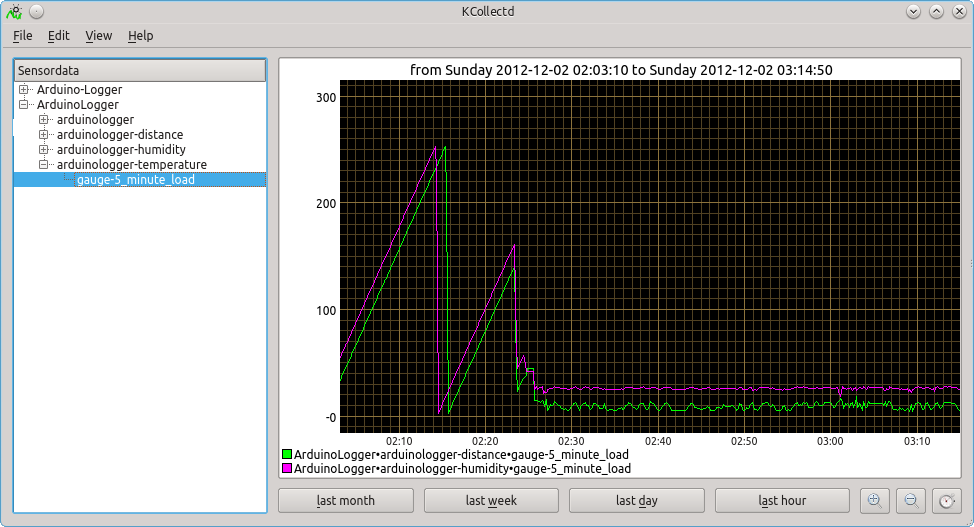
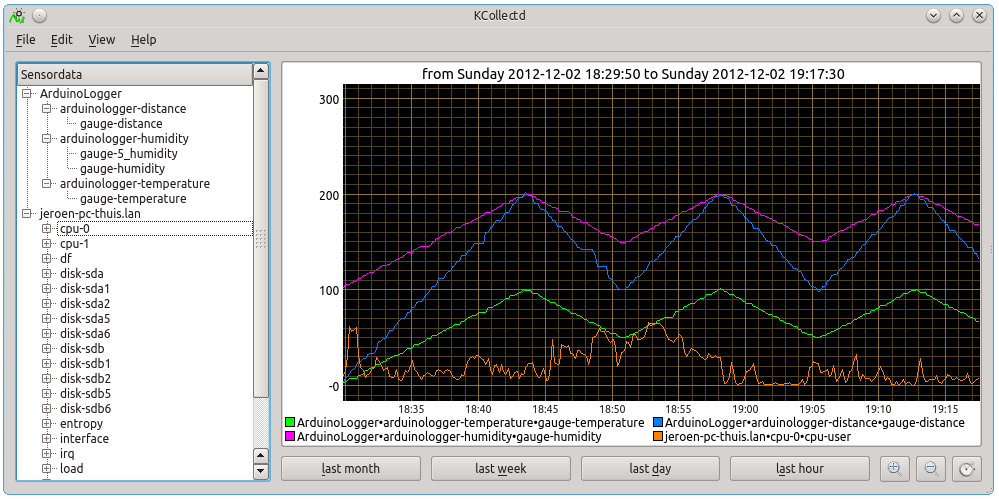
new KCollectd screenshot

diff --git a/Clients/Collectd/arduinologger_temperature.rb b/Clients/Collectd/arduinologger_temperature.rb
@@ -38,7 +38,7 @@ begin
 
     # collectd data and print the values
     data = `cat /usr/lib/collectd/plugins/arduino_temperature.log`   # get 5-minute load average
-    puts("PUTVAL #{hostname}/#{PLUGIN_NAME}/gauge-5_minute_load #{start_run}:#{data}")
+    puts("PUTVAL #{hostname}/#{PLUGIN_NAME}/gauge-temperature #{start_run}:#{data}")
 
     # sleep to make the interval
     while((time_left = (next_run - Time.now.to_i)) > 0) do

diff --git a/Clients/Collectd/arduinologger_distance.rb b/Clients/Collectd/arduinologger_distance.rb
@@ -38,7 +38,7 @@ begin
 
     # collectd data and print the values
     data = `cat /usr/lib/collectd/plugins/arduino_distance.log`   # get 5-minute load average
-    puts("PUTVAL #{hostname}/#{PLUGIN_NAME}/gauge-5_minute_load #{start_run}:#{data}")
+    puts("PUTVAL #{hostname}/#{PLUGIN_NAME}/gauge-distance #{start_run}:#{data}")
 
     # sleep to make the interval
     while((time_left = (next_run - Time.now.to_i)) > 0) do

diff --git a/Clients/Collectd/arduinologger_humidity.rb b/Clients/Collectd/arduinologger_humidity.rb
@@ -38,7 +38,7 @@ begin
 
     # collectd data and print the values
     data = `cat /usr/lib/collectd/plugins/arduino_humidity.log`   # get 5-minute load average
-    puts("PUTVAL #{hostname}/#{PLUGIN_NAME}/gauge-5_minute_load #{start_run}:#{data}")
+    puts("PUTVAL #{hostname}/#{PLUGIN_NAME}/gauge-humidity #{start_run}:#{data}")
 
     # sleep to make the interval
     while((time_left = (next_run - Time.now.to_i)) > 0) do
